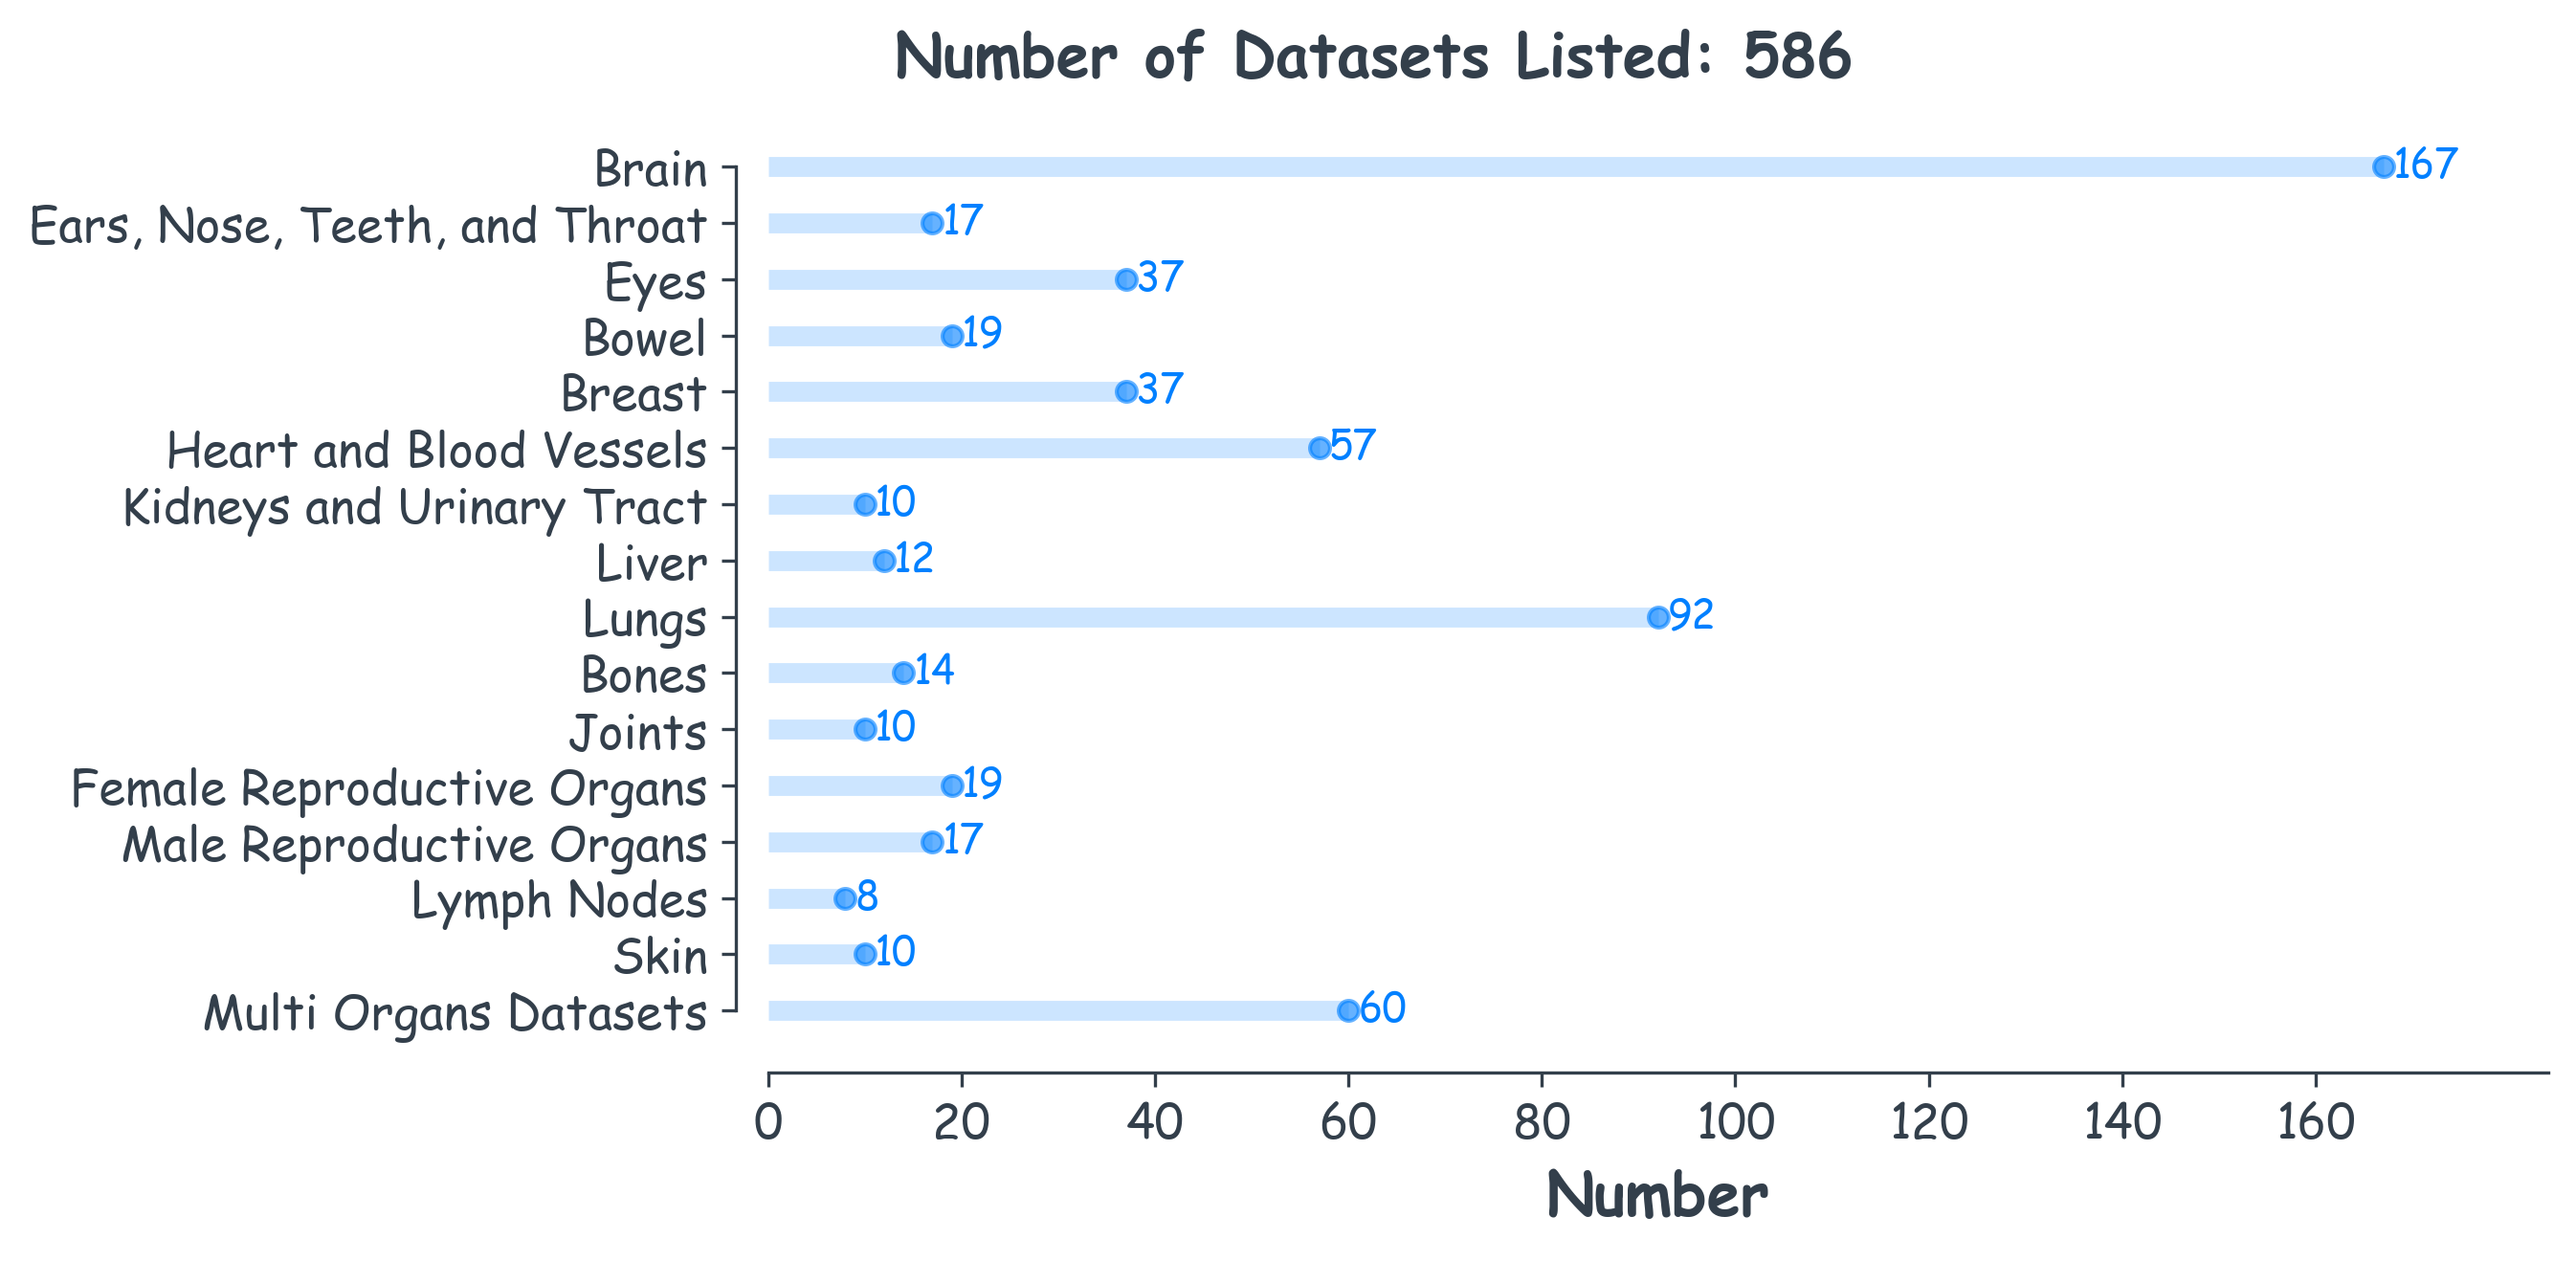
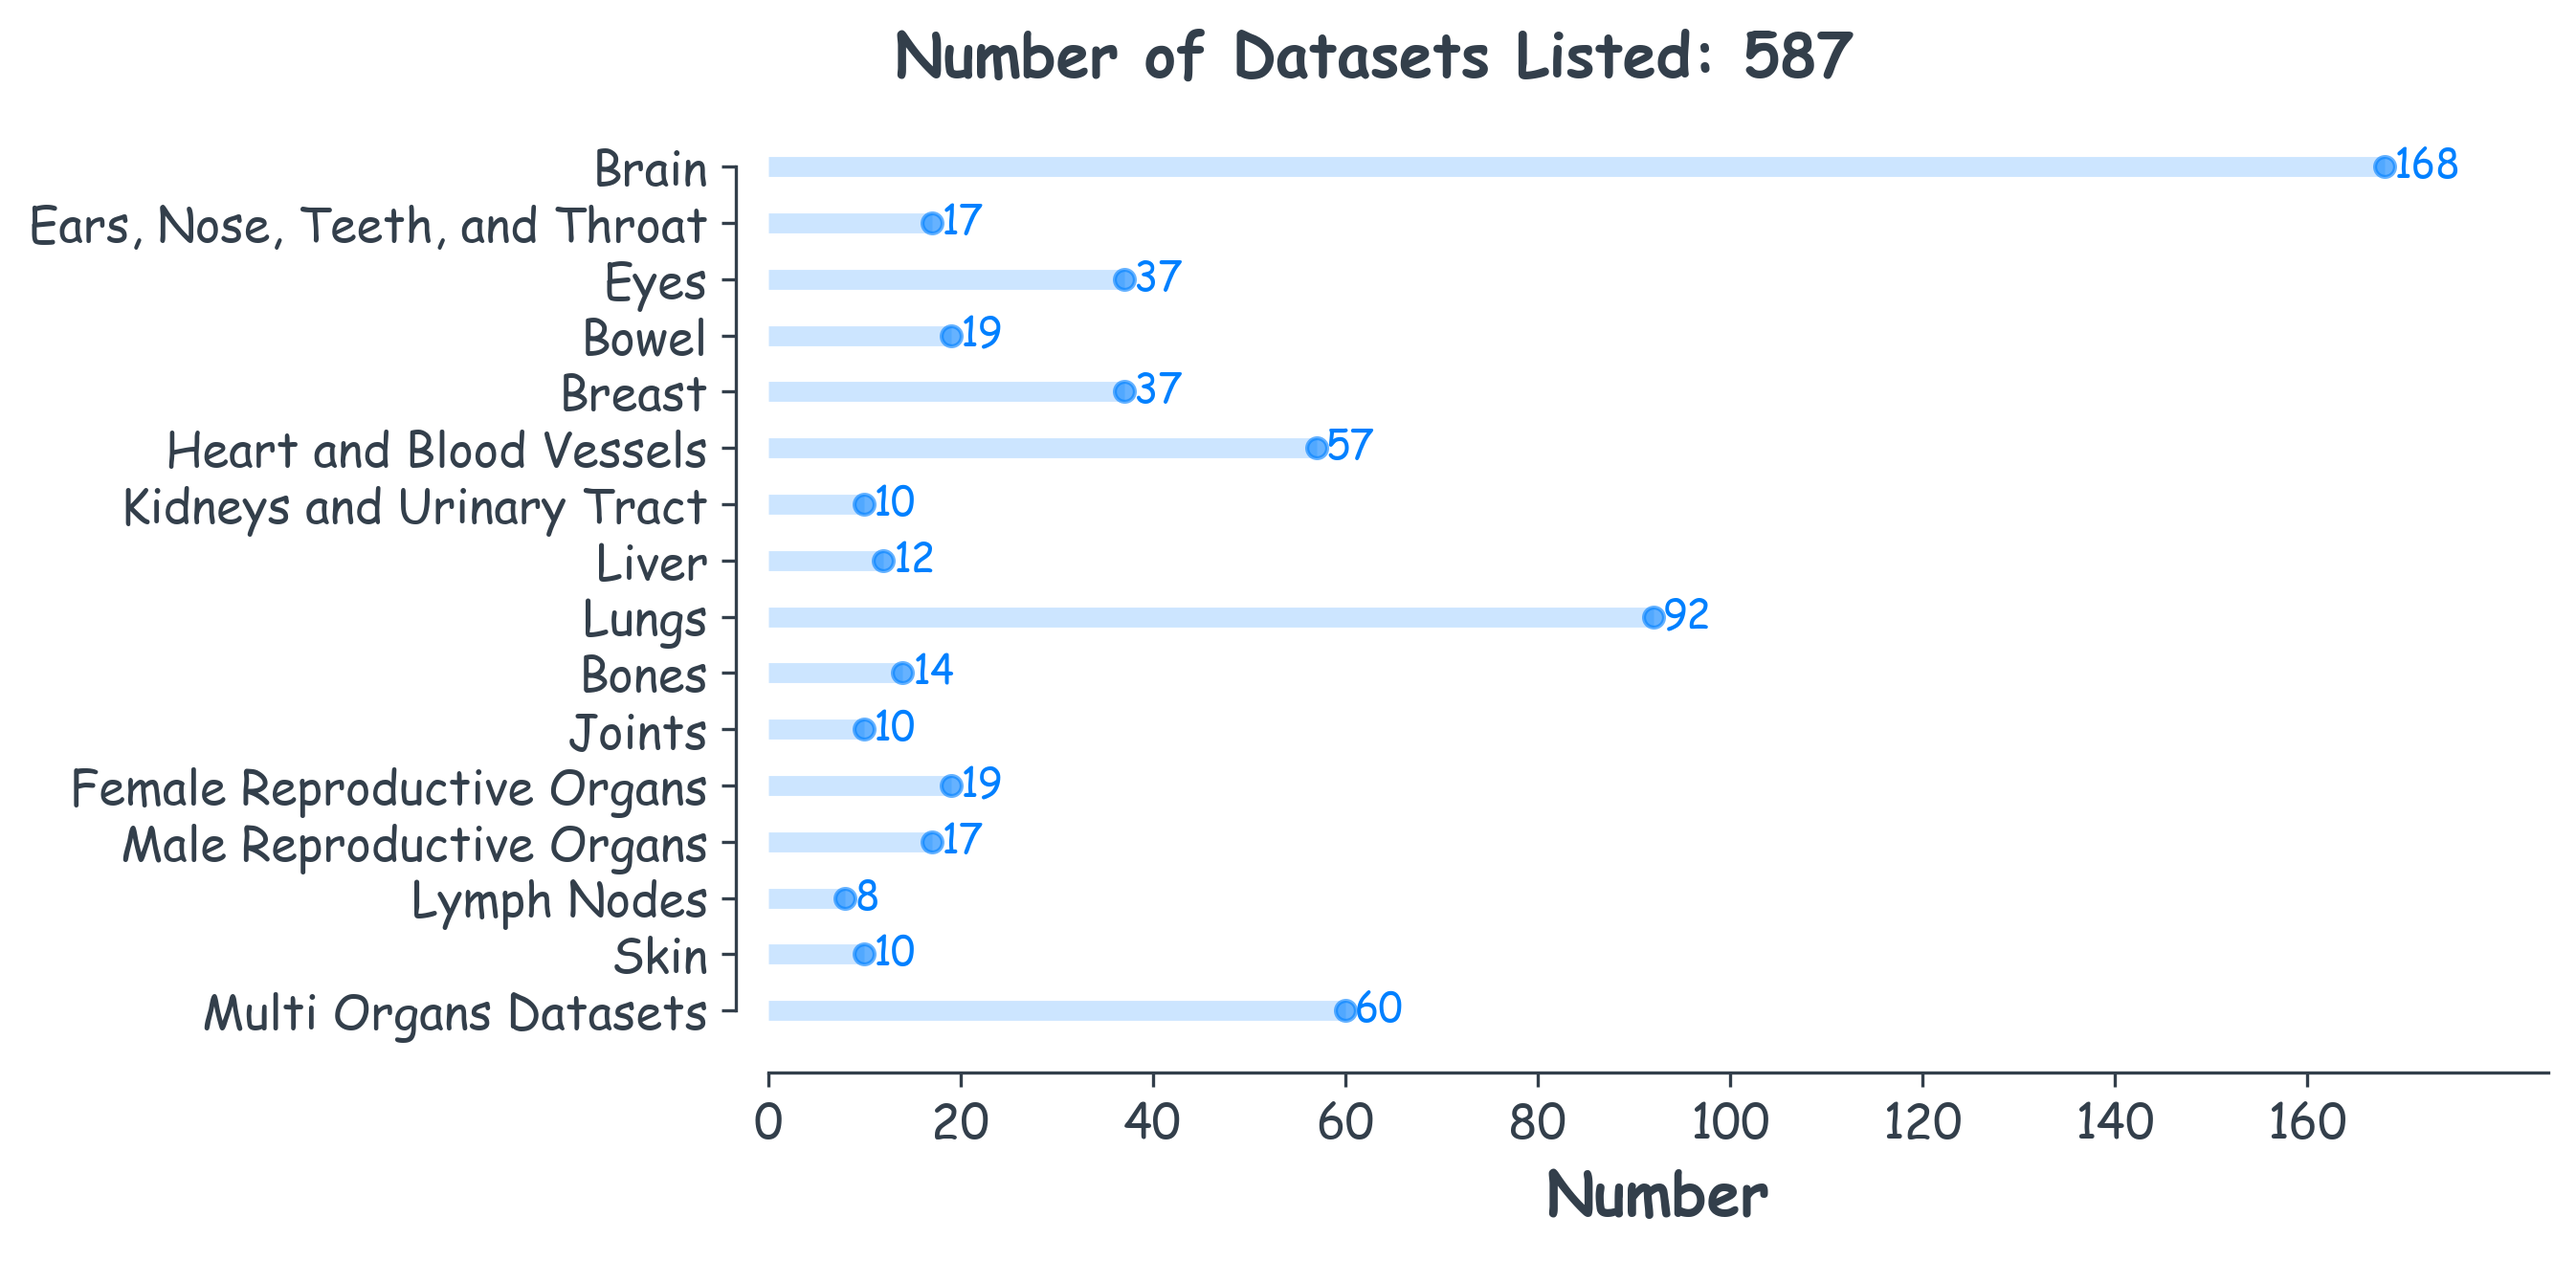
update image number, N = 587

diff --git a/src/datasetNumberImage.py b/src/datasetNumberImage.py
@@ -29,7 +29,7 @@ plt.rcParams['text.color']='#333F4B'
 
 
 data = {
-       'Brain': 167,
+       'Brain': 168,
        'Ears, Nose, Teeth, and Throat': 17, 
        'Eyes': 37,
        'Bowel': 19,
